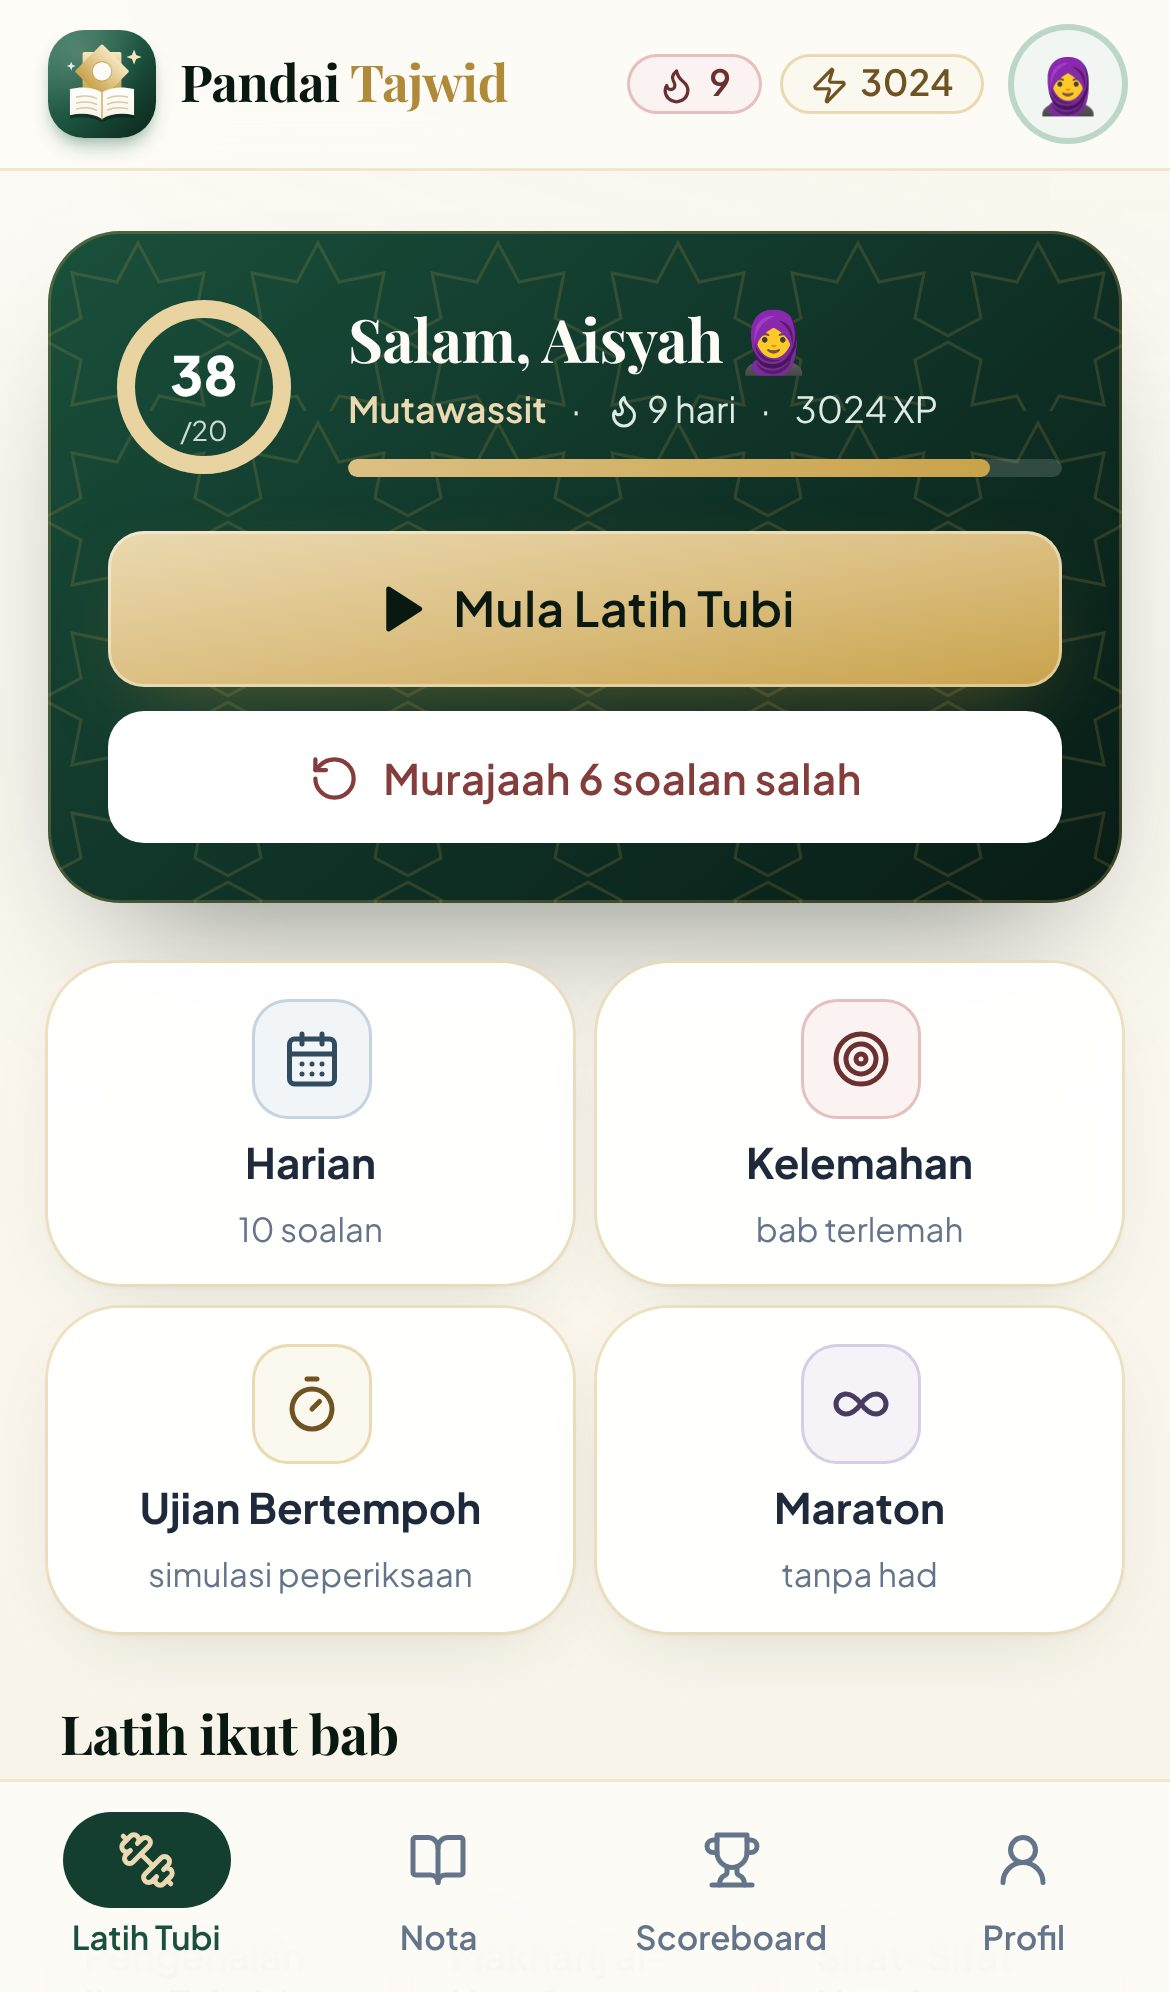
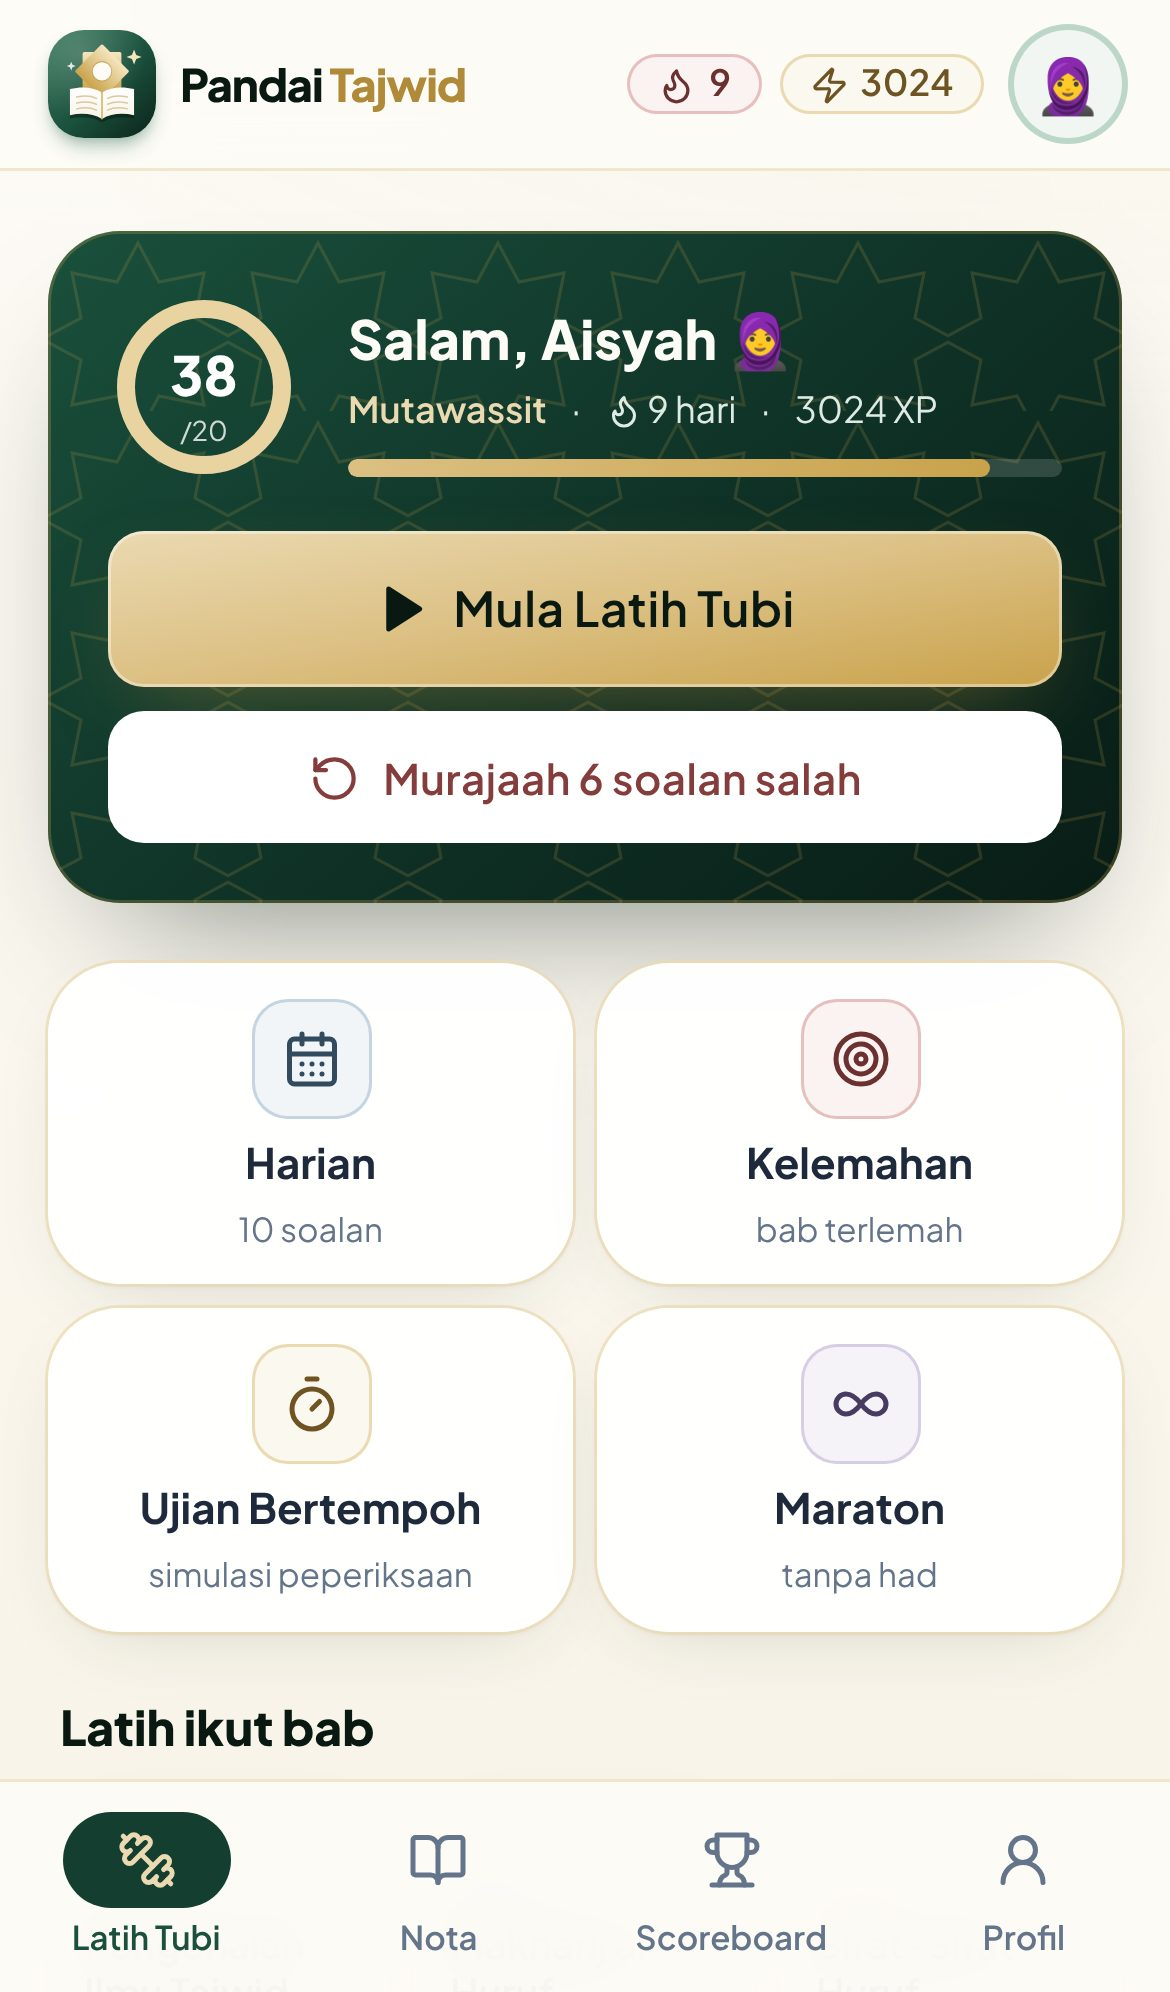
Kembalikan fon asal Plus Jakarta Sans (tebal) — warna premium dikekalkan
- Buang Playfair Display daripada aplikasi, halaman jualan, terima kasih & terma
- Saiz & berat tajuk dikembalikan seperti asal
- Tangkapan skrin & gambar kongsian dijana semula

Claude-Session: https://claude.ai/code/session_017tM5AhS8Fdw2KSrKApBq6g

Changed region(s): [[0.0615, 0.8404, 0.3385, 0.9026], [0.3077, 0.1556, 0.7077, 0.1867], [0.1538, 0.0311, 0.4308, 0.0622]]

diff --git a/public/jualan/index.html b/public/jualan/index.html
@@ -20,7 +20,7 @@
 <link rel="apple-touch-icon" href="../apple-touch-icon.png" />
 <link rel="preconnect" href="https://fonts.googleapis.com" />
 <link rel="preconnect" href="https://fonts.gstatic.com" crossorigin />
-<link href="https://fonts.googleapis.com/css2?family=Amiri:wght@400;700&family=Plus+Jakarta+Sans:wght@400;500;600;700;800&family=Playfair+Display:wght@600;700;800&display=swap" rel="stylesheet" />
+<link href="https://fonts.googleapis.com/css2?family=Amiri:wght@400;700&family=Plus+Jakarta+Sans:wght@400;500;600;700;800&display=swap" rel="stylesheet" />
 <script src="config.js"></script>
 <style>
   :root{
@@ -29,7 +29,7 @@
     --forest:#081c15;--forest-2:#0f3126;--gold:#c9a24b;--gold-2:#e9d3a0;--gold-50:#fbf8f0;--cream:#fdfbf6;
     --ink:#14261e;--muted:#5f6b64;--line:#ece3cf;--rose:#843c3c;--sky:#3e5d75;--violet:#5a4a7a;
     --radius:22px;--shadow:0 1px 2px rgba(15,49,38,.05),0 14px 34px -16px rgba(15,49,38,.22);
-    --serif:"Playfair Display",Georgia,serif;
+    --serif:"Plus Jakarta Sans",system-ui,sans-serif;
   }
   *{box-sizing:border-box}
   html{scroll-behavior:smooth;-webkit-text-size-adjust:100%}
@@ -40,8 +40,8 @@
   .wrap{max-width:1120px;margin:0 auto;padding:0 18px}
   section{padding:72px 0}
   .eyebrow{display:inline-flex;align-items:center;gap:8px;font-size:13px;font-weight:700;letter-spacing:.04em;color:#8f6d2c;background:#fbf8f0;border:1px solid #ead9b1;padding:6px 14px;border-radius:999px;text-transform:uppercase;font-size:11.5px;letter-spacing:.12em}
-  h1,h2,h3{line-height:1.15;margin:0;letter-spacing:-.01em}
-  h1,h2{font-family:var(--serif);font-weight:700}
+  h1,h2,h3{line-height:1.15;margin:0;letter-spacing:-.02em}
+  h1,h2{font-weight:800}
   h2{font-size:clamp(28px,4.2vw,42px);font-weight:800}
   h3{font-size:19px;font-weight:800}
   .lead{font-size:clamp(16px,2vw,19px);color:var(--muted)}
@@ -70,7 +70,7 @@
   .nav .wrap{display:flex;align-items:center;justify-content:space-between;height:62px}
   .logo{display:flex;align-items:center;gap:10px;text-decoration:none;font-weight:800;font-size:18px}
   .logo i{display:grid;place-items:center;width:38px;height:38px;border-radius:12px;background:linear-gradient(135deg,var(--em-400),var(--em-700));color:#fff;font-style:normal;font-family:"Amiri",serif;font-size:22px;box-shadow:0 6px 14px -6px rgba(4,120,87,.7)}
-  .logo{font-family:var(--serif)}.logo b{color:#b08939}
+  .logo b{color:#b08939}
   .nav-links{display:flex;gap:22px;font-size:14px;font-weight:600;color:var(--muted)}
   .nav-links a{text-decoration:none}
   .nav-links a:hover{color:var(--em-700)}
@@ -87,7 +87,7 @@
   .chips{display:flex;flex-wrap:wrap;gap:8px}
   .hero-visual{position:relative;height:600px}
   .hero-price{display:inline-block;margin:-4px 0 16px;line-height:1.5;font-size:14px;font-weight:700;color:#56401c;background:#fbf8f0;border:1px solid #ead9b1;border-radius:14px;padding:8px 12px}
-  .hero-price b{font-family:var(--serif);font-size:20px;color:#1a503c}
+  .hero-price b{font-size:18px;color:#1a503c}
   .next-price{display:inline-block;margin-top:6px;font-size:13px;font-weight:700;color:#6f5323;background:#f5edda;border-radius:999px;padding:4px 12px}
   .ayat{margin-top:22px;font-size:15px;color:var(--muted)}
   .ayat .arab{font-size:26px;color:var(--em-800);display:block;line-height:1.7}
@@ -136,7 +136,7 @@
   /* ---------- Steps ---------- */
   .steps{counter-reset:s}
   .step{padding:24px}
-  .step .n{display:grid;place-items:center;width:44px;height:44px;border-radius:14px;background:linear-gradient(135deg,var(--em-600),var(--em-900));color:#e9d3a0;font-family:var(--serif);font-weight:700;font-size:20px;margin-bottom:14px}
+  .step .n{display:grid;place-items:center;width:44px;height:44px;border-radius:14px;background:linear-gradient(135deg,var(--em-600),var(--em-900));color:#e9d3a0;font-weight:800;font-size:18px;margin-bottom:14px}
   .step img{border-radius:18px;margin-top:16px;border:1px solid var(--line);aspect-ratio:9/12;object-fit:cover;object-position:top;width:100%}
   .step p{color:var(--muted);margin:6px 0 0;font-size:15px}
 
@@ -221,7 +221,7 @@
   .offer-box{max-width:640px;margin:0 auto;padding:30px 24px;text-align:center;border:2px solid var(--gold-2);position:relative}
   .ribbon{position:absolute;top:-15px;left:50%;transform:translateX(-50%);background:linear-gradient(135deg,#1a503c,#0f3126);color:#e9d3a0;font-weight:700;font-size:11.5px;letter-spacing:.12em;padding:7px 18px;border:1px solid rgba(201,162,75,.5);border-radius:999px;white-space:nowrap}
   .price{display:flex;align-items:baseline;justify-content:center;gap:12px;margin:12px 0 4px}
-  .price .now{font-family:var(--serif);font-size:60px;font-weight:700;color:var(--em-800)}
+  .price .now{font-size:56px;font-weight:800;color:var(--em-800)}
   .price s{font-size:22px;color:#9aa8a1}
   .incl{list-style:none;padding:0;margin:18px auto 22px;text-align:left;max-width:440px;display:grid;gap:9px}
   .incl li{display:flex;gap:10px;font-size:15px}

diff --git a/public/jualan/terima-kasih.html b/public/jualan/terima-kasih.html
@@ -10,7 +10,7 @@
 <script src="config.js"></script>
 <link rel="preconnect" href="https://fonts.googleapis.com" />
 <link rel="preconnect" href="https://fonts.gstatic.com" crossorigin />
-<link href="https://fonts.googleapis.com/css2?family=Amiri:wght@400;700&family=Plus+Jakarta+Sans:wght@400;600;700;800&family=Playfair+Display:wght@600;700&display=swap" rel="stylesheet" />
+<link href="https://fonts.googleapis.com/css2?family=Amiri:wght@400;700&family=Plus+Jakarta+Sans:wght@400;600;700;800&display=swap" rel="stylesheet" />
 <!--
   Halaman ini ialah "Return URL" ToyyibPay: https://larifsham99.github.io/Pandai-Tajwid/jualan/terima-kasih.html
   ToyyibPay menambah ?status_id=1 (berjaya) / 2 (belum selesai) / 3 (gagal).
@@ -24,12 +24,12 @@
   .wrap{max-width:560px;margin:0 auto;padding:28px 18px 40px}
   .logo{display:flex;align-items:center;justify-content:center;gap:10px;font-weight:800;font-size:19px;margin-bottom:20px}
   .logo i{display:grid;place-items:center;width:40px;height:40px;border-radius:12px;background:linear-gradient(135deg,#24634a,#0f3126);color:#fff;font-style:normal;font-family:"Amiri",serif;font-size:22px}
-  .logo{font-family:"Playfair Display",Georgia,serif}.logo b{color:#b08939}
+  .logo b{color:#b08939}
   .card{background:#fff;border:1px solid var(--line);border-radius:24px;box-shadow:0 10px 30px -12px rgba(6,78,59,.2);overflow:hidden}
   .top{background:linear-gradient(140deg,#1a503c,#0f3126 55%,#081c15);color:#fff;text-align:center;padding:30px 22px}
   .big{font-size:58px;line-height:1;animation:pop .6s ease}
   @keyframes pop{0%{transform:scale(.4);opacity:0}70%{transform:scale(1.15)}100%{transform:none;opacity:1}}
-  h1{font-family:"Playfair Display",Georgia,serif;margin:12px 0 6px;font-size:26px;line-height:1.2}
+  h1{margin:12px 0 6px;font-size:26px;line-height:1.2}
   .top p{margin:0;color:#d9e7df}
   .body{padding:22px}
   .mail{display:flex;gap:12px;align-items:flex-start;background:#fbf8f0;border:1px solid #ead9b1;border-radius:16px;padding:14px;margin-bottom:18px}

diff --git a/src/pages/LatihTubi.tsx b/src/pages/LatihTubi.tsx
@@ -55,7 +55,7 @@ export default function LatihTubi() {
         <div className="flex items-center gap-4">
           <Ring value={today} max={d.settings.dailyGoal} />
           <div className="min-w-0 flex-1">
-            <div className="truncate font-display text-xl font-bold text-krim-50">Salam, {me.name} {me.avatar}</div>
+            <div className="truncate text-lg font-extrabold text-krim-50">Salam, {me.name} {me.avatar}</div>
             <div className="mt-0.5 flex items-center gap-2 text-xs text-zamrud-100">
               <span className="font-semibold text-emas-200">{s.lvl.level.name}</span>·<span className="inline-flex items-center gap-0.5"><Flame size={12} /> {s.streak} hari</span>·<span>{s.xp} XP</span>
             </div>
@@ -88,7 +88,7 @@ export default function LatihTubi() {
 
       {/* ---------- Bab ---------- */}
       <section>
-        <h2 className="mb-2 px-1 font-display text-lg font-bold text-hutan-900 dark:text-krim-50">Latih ikut bab</h2>
+        <h2 className="mb-2 px-1 text-base font-extrabold text-hutan-900 dark:text-krim-50">Latih ikut bab</h2>
         <div className="grid grid-cols-3 gap-2 sm:grid-cols-4">
           {CHAPTERS.map((c, i) => {
             const st = s.stats[i];

diff --git a/src/pages/Sesi.tsx b/src/pages/Sesi.tsx
@@ -45,7 +45,7 @@ function SesiInner() {
       <div className="mx-auto max-w-2xl space-y-4">
         <Card className="motif relative overflow-hidden p-6 text-center">
           <div className="text-5xl">{pct >= 80 ? "🏆" : pct >= 60 ? "🌟" : "🌱"}</div>
-          <div className="mt-2 font-display text-6xl font-bold text-zamrud-800 dark:text-emas-300">{pct}%</div>
+          <div className="mt-2 text-5xl font-extrabold text-zamrud-800 dark:text-emas-300">{pct}%</div>
           <div className="text-sm text-slate-500">{correctN} betul daripada {answered} dijawab · {set.title}</div>
           {answered > 0 && <div className="mt-2 inline-flex items-center gap-1 rounded-full bg-emas-100 px-3 py-1 text-sm font-bold text-emas-800">+{xpEarned + XP_RULES.exercise} XP</div>}
           <div className="mt-3 text-sm font-semibold">{pct >= 80 ? "Mumtaz! Teruskan istiqamah." : pct >= 60 ? "Jayyid. Ulang soalan yang salah untuk menguasai." : "Jangan putus asa — baca semula nota dan cuba lagi."}</div>

diff --git a/src/pages/Ujian.tsx b/src/pages/Ujian.tsx
@@ -141,7 +141,7 @@ function Result({ qs, ans, usedSec, onRestart }: { qs: Question[]; ans: Record<s
     <div className="mx-auto max-w-2xl space-y-4">
       <Card className="motif p-6 text-center">
         <div className="text-5xl">{pct >= 80 ? "🏆" : pct >= 60 ? "🌟" : "🌱"}</div>
-        <div className="mt-2 font-display text-6xl font-bold text-zamrud-800 dark:text-emas-300">{pct}%</div>
+        <div className="mt-2 text-5xl font-extrabold text-zamrud-800 dark:text-emas-300">{pct}%</div>
         <div className="text-sm text-slate-500">{right.length} betul daripada {qs.length} · masa {fmt(usedSec)}</div>
         <div className="mt-2 text-sm font-semibold">{pct >= 80 ? "Mumtaz! Anda bersedia menghadapi peperiksaan." : pct >= 60 ? "Jayyid. Fokus pada bab yang lemah di bawah." : "Teruskan latihan — ulang kaji nota bab yang lemah."}</div>
         <div className="mt-4 grid gap-2 sm:flex sm:justify-center">

diff --git a/src/components/brand.tsx b/src/components/brand.tsx
@@ -13,7 +13,7 @@ export function Logo({ className }: { className?: string }) {
     <div className={cx("flex items-center gap-2", className)}>
       <img src="./icon.svg" alt="" width={36} height={36} className="h-9 w-9 rounded-xl shadow-md shadow-zamrud-600/30" />
       <div className="leading-tight">
-        <div className="font-display text-[17px] font-bold text-hutan-900 dark:text-krim-50">Pandai <span className="text-emas-500">Tajwid</span></div>
+        <div className="text-[15px] font-extrabold tracking-tight text-hutan-900 dark:text-krim-50">Pandai <span className="text-emas-500">Tajwid</span></div>
         <div className="hidden text-[10px] font-semibold uppercase tracking-[.14em] text-slate-400 sm:block">Latih • Faham • Kuasai</div>
       </div>
     </div>

diff --git a/src/components/ui.tsx b/src/components/ui.tsx
@@ -15,7 +15,7 @@ export function PageHeader({ title, subtitle, icon, actions }: { title: string; 
       <div className="flex items-center gap-3">
         {icon && <div className="grid h-12 w-12 place-items-center rounded-2xl bg-gradient-to-br from-zamrud-600 to-zamrud-900 text-xl text-emas-200 shadow-lg shadow-zamrud-900/25 ring-1 ring-emas-300/50">{icon}</div>}
         <div>
-          <h1 className="font-display text-2xl font-bold text-hutan-900 dark:text-krim-50 sm:text-3xl">{title}</h1>
+          <h1 className="text-xl font-extrabold tracking-tight text-hutan-900 dark:text-krim-50 sm:text-2xl">{title}</h1>
           {subtitle && <p className="text-sm text-slate-500 dark:text-slate-400">{subtitle}</p>}
         </div>
       </div>

diff --git a/index.html b/index.html
@@ -13,7 +13,7 @@
     <meta name="apple-mobile-web-app-title" content="Pandai Tajwid" />
     <link rel="preconnect" href="https://fonts.googleapis.com" />
     <link rel="preconnect" href="https://fonts.gstatic.com" crossorigin />
-    <link href="https://fonts.googleapis.com/css2?family=Amiri:wght@400;700&family=Amiri+Quran&family=Plus+Jakarta+Sans:wght@400;500;600;700;800&family=Playfair+Display:wght@600;700;800&display=swap" rel="stylesheet" />
+    <link href="https://fonts.googleapis.com/css2?family=Amiri:wght@400;700&family=Amiri+Quran&family=Plus+Jakarta+Sans:wght@400;500;600;700;800&display=swap" rel="stylesheet" />
     <title>Pandai Tajwid</title>
   </head>
   <body>

diff --git a/public/jualan/terma.html b/public/jualan/terma.html
@@ -13,7 +13,7 @@
   body{margin:0;font-family:system-ui,-apple-system,"Segoe UI",Roboto,sans-serif;color:var(--ink);line-height:1.65;background:#fdfbf6}
   .wrap{max-width:760px;margin:0 auto;padding:28px 18px 60px}
   a{color:var(--em)}
-  h1{font-family:"Playfair Display",Georgia,serif;font-size:28px;line-height:1.2;margin:8px 0 4px}
+  h1{font-size:28px;line-height:1.2;margin:8px 0 4px}
   h2{font-size:18px;margin:28px 0 8px;color:var(--em)}
   p,li{font-size:15.5px}
   ul{padding-left:20px}

diff --git a/src/index.css b/src/index.css
@@ -61,6 +61,6 @@ a.card:hover, button.card:hover { @apply -translate-y-0.5 shadow-lg ring-emas-30
 }
 .print-only { display: none; }
 
-/* Tajuk premium (serif) */
-.font-display { font-family: "Playfair Display", Georgia, serif; letter-spacing: -.01em; }
+/* Tajuk: fon asal Plus Jakarta Sans (tebal) */
+.font-display { font-family: "Plus Jakarta Sans", system-ui, sans-serif; font-weight: 800; letter-spacing: -.02em; }
 .chip { letter-spacing: .01em; }

diff --git a/tailwind.config.js b/tailwind.config.js
@@ -21,7 +21,7 @@ export default {
       },
       fontFamily: {
         sans: ['"Plus Jakarta Sans"', 'system-ui', 'sans-serif'],
-        display: ['"Playfair Display"', 'Georgia', 'serif'],
+        display: ['"Plus Jakarta Sans"', 'system-ui', 'sans-serif'],
         arab: ['"Amiri Quran"', '"Amiri"', '"Scheherazade New"', 'serif'],
         jawi: ['"Amiri"', 'serif'],
       },
